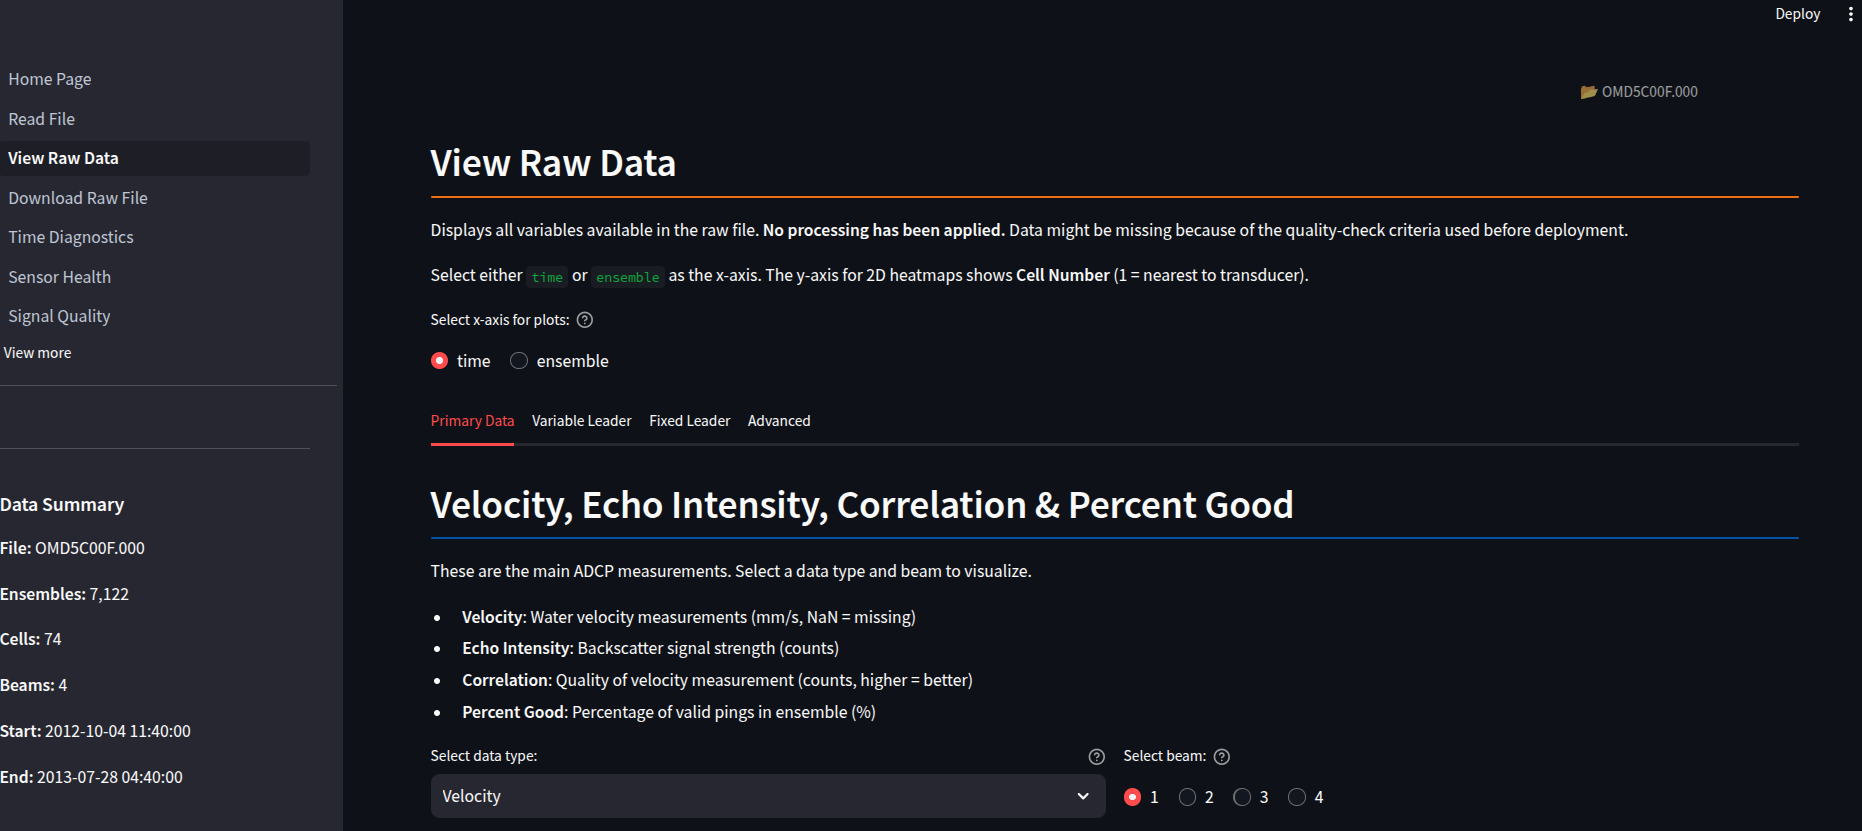
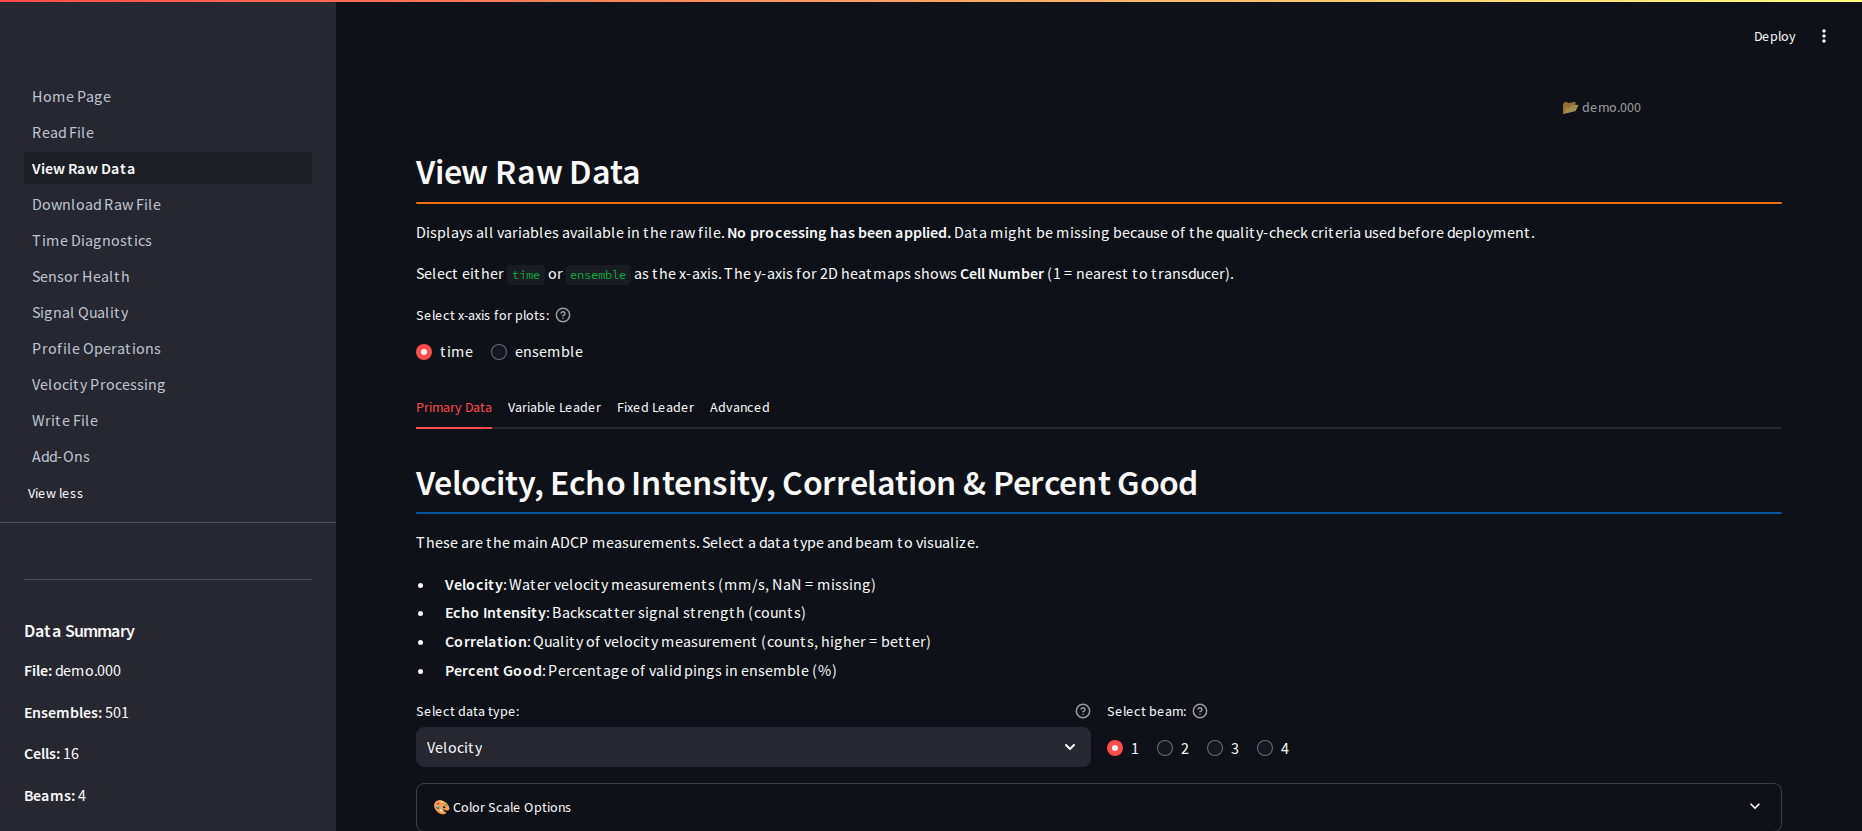
docs: fix documentation bugs and refresh stale web-app screenshots
Corrects several examples and references that had drifted from the
actual code: header-accessor usage, config.ini key names, regrid()
signature/default, and a pd0_parser error code name. Moves the AI-
assistance disclosure into its own Note section and fixes pyadps
casing in the Sphinx front page.

Also retakes all 10 web-app screenshots against the bundled demo.000
file, replacing ones that had gone stale after the three-beam mode,
Write File export, and Time Diagnostics UI changes.

diff --git a/CHANGELOG.md b/CHANGELOG.md
@@ -15,6 +15,13 @@ All notable changes to `pyadps` are documented in this file. The format is based
 - Selectable export components (velocity, echo intensity, correlation, percent good) on
   the Write File page, replacing the earlier velocity-only/full-dataset choice
 - Short (u, v, w) velocity variable naming option alongside the CF-style long names
+- Processing pipeline flowchart on the Streamlit home page and in the docs, showing
+  the six-step pipeline plus the decision logic within Time Diagnostics, Sensor
+  Health, Signal Quality, and Profile Operations
+- "Background" section (motivation, deployment context, current coordinate-system
+  limitation) on the README, Streamlit home page, and docs front page
+- "Processing Guidelines" section on the Web Application docs page, with
+  per-page tips on what to check at each step
 
 ### Changed
 
@@ -25,6 +32,21 @@ All notable changes to `pyadps` are documented in this file. The format is based
   check only; it previously also appeared on Correlation, Echo Intensity, and False
   Target, where it was either non-functional or not reliably grounded on
   ensemble-averaged data
+
+### Fixed
+
+- Documentation examples calling `ds.header.*` right after a plain `pyadps.read()`
+  call, which silently misreports file status since `include_header` defaults to
+  `False` (`installation.md`, `io/accessors.md`, `io/index.md`)
+- Sample `config.ini` in `processing/config.md` used incorrect key names in the
+  `[QCTest]`, `[ProfileTest]`, and `[VelocityTest]` sections that don't match
+  `ProcessingConfig.from_ini()` — a hand-edited file following the old example
+  would have had those settings silently ignored
+- `ProfileOperationRunner.regrid()` documentation listed nonexistent parameters
+  and the wrong default interpolation method
+- `pd0_parser` error code 5 documented under the wrong name
+  (`WRONG_RDIFILE_TYPE` instead of `WRONG_ADCPFILE_TYPE`)
+- Write File page documentation describing the pre-redesign Export Data tab
 
 ### Deprecated
 

diff --git a/docs/source/index.md b/docs/source/index.md
@@ -1,8 +1,8 @@
 # pyadps Documentation
 
-**Professional Python package for RDI ADCP data processing**
+**Python package for ADCP data processing**
 
-pyadps provides tools for reading, quality controlling, and processing
+`pyadps` provides tools for reading, quality controlling, and processing
 Acoustic Doppler Current Profiler (ADCP) data — designed for Teledyne RDI
 ADCPs recording in the PD0 binary format. PD0 files from other RDI models,
 such as Ocean Surveyor and DVS, can also be read; take extra care when
@@ -21,9 +21,6 @@ look at the quality-control results before the velocity output is treated
 as final. The package currently processes only data recorded in Earth
 coordinates; Beam-coordinate support and the associated coordinate
 transformation are planned for a future release.
-
-This version of the package was developed with extensive use of Claude
-(Anthropic) as a coding assistant.
 
 ## Features
 
@@ -65,7 +62,7 @@ ds.to_netcdf('output.nc')
 
 ## Package Structure
 
-pyadps is organized into three main components:
+`pyadps` is organized into three main components:
 
 ```{toctree}
 :maxdepth: 1
@@ -95,7 +92,7 @@ reference/changelog
 
 ## Getting Started
 
-1. **Install pyadps**: See {doc}`installation` for instructions
+1. **Install `pyadps`**: See {doc}`installation` for instructions
 2. **Read the Quick Start**: {doc}`quickstart` provides a 5-minute introduction
 3. **Try the Web App**: {doc}`webapp/index` covers the interactive interface
 4. **Go deeper**: {doc}`io/index` and {doc}`processing/index` cover the module details
@@ -138,4 +135,9 @@ reference/changelog
 
 ## License
 
-pyadps is released under the MIT License.
+`pyadps` is released under the MIT License.
+
+## Note
+
+*This version of the package was developed with extensive use of Claude
+(Anthropic) as a coding assistant.*

diff --git a/docs/source/webapp/index.md b/docs/source/webapp/index.md
@@ -346,13 +346,23 @@ Export the processed dataset and save the processing configuration.
 |-----|-------------|
 | 📊 Preview Data | Visualise processed data with QC mask applied |
 | 📝 Attributes | Add custom metadata (cruise number, location, etc.) |
-| 💾 Export Data | Download NetCDF or CSV output |
+| 💾 Export Data | Choose components and export as NetCDF or CSV |
 | ⚙ Config File | Download `config.ini` capturing all processing settings |
 
 The exported `config.ini` can be used with the Auto Processing tool (Page 10)
 to reprocess data with adjusted parameters without repeating the full workflow.
 
 ```{tip}
+Export Data lets you pick which components to include — Velocity (checked
+by default), Echo Intensity, Correlation, Percent Good — or check **Entire
+Dataset** to export everything instead (equivalent to a full raw dump,
+overriding the individual checkboxes). Velocity variable names default to
+the short form (`u`, `v`, `w`); switch to CF-style long names
+(`zonal_velocity`, `meridional_velocity`, `vertical_velocity`) or enter
+your own if you prefer — either way the file stays CF-compliant, since CF
+Convention governs attribute values, not variable names. Exported NetCDF
+filenames end in `_PRO.nc`.
+
 Download the final processed data and the `config.ini` together — the
 config file records every setting you used, so the run can be reproduced
 or repeated later with minor adjustments instead of redoing the whole

diff --git a/README.md b/README.md
@@ -16,8 +16,6 @@
 
 `pyadps` was built to process Teledyne RDI PD0 files from moored ADCP deployments that lack navigation (GPS) data. It was developed primarily for the COSINE and ECO-IOD mooring programs in the north Indian Ocean, which together span over 600 ADCP deployments — a scale that made it worth standardizing and documenting the processing steps rather than repeating ad hoc scripts for each dataset. The accompanying web interface lets users with limited programming experience run the same pipeline, while the processing workflow still requires a close look at the quality-control results before the velocity output is treated as final. The package currently processes only data recorded in Earth coordinates; Beam-coordinate support and the associated coordinate transformation are planned for a future release.
 
-This version of the package was developed with extensive use of Claude (Anthropic) as a coding assistant.
-
 ## Features
 
 - Read RDI binary files (PD0 format) as `xarray.Dataset`
@@ -133,3 +131,7 @@ For the complete guide see the [documentation](https://pyadps.readthedocs.io).
 ## License
 
 This project is licensed under the MIT License. See the [LICENSE](LICENSE) file for details.
+
+## Note
+
+*This version of the package was developed with extensive use of Claude (Anthropic) as a coding assistant.*

diff --git a/docs/source/processing/profile_operation.md b/docs/source/processing/profile_operation.md
@@ -22,7 +22,7 @@ All methods return `self` for chaining.
 | `trim_ensembles(start, end)` | Mask ensembles at the start and/or end of deployment |
 | `cut_bins_side_lobe(orientation, water_depth, extra_cells=1)` | Mask cells contaminated by acoustic side-lobe interference |
 | `cut_bins_manual(min_cell, max_cell, min_ensemble, max_ensemble)` | Mask a rectangular region by cell and ensemble index |
-| `regrid(method='linear', depth_min, depth_max, depth_step)` | Interpolate from cell coordinates to a regular depth grid |
+| `regrid(method='nearest', end_cell_option='cell', trimends=None, orientation=None, boundary_limit=0.0, data_vars=None, fill_value=np.nan)` | Interpolate from cell coordinates to a regular depth grid |
 
 ### Control and Output Methods
 

diff --git a/docs/source/processing/config.md b/docs/source/processing/config.md
@@ -106,23 +106,23 @@ roll_cutoff = 15.0
 
 [QCTest]
 qc_test = true
-correlation_threshold = 64.0
-echo_intensity_threshold = 0.0
-error_velocity_threshold = 2000.0
+correlation = 64.0
+echo_intensity = 0.0
+error_velocity = 2000.0
 
 [ProfileTest]
 profile_test = true
 trim_ends = true
 trim_start = 100
 trim_end = 50
-cut_bins_side_lobe = true
+cut_sidelobe = true
 
 [VelocityTest]
 velocity_test = true
-cutoff_check = true
-max_u_velocity = 2500.0
-max_v_velocity = 2500.0
-max_w_velocity = 500.0
+velocity_cutoff = true
+max_zonal_velocity = 2500.0
+max_meridional_velocity = 2500.0
+max_vertical_velocity = 500.0
 ```
 
 ## Usage with ProcessedDataset

diff --git a/docs/source/io/pd0_parser.md b/docs/source/io/pd0_parser.md
@@ -65,7 +65,7 @@ if err != 0:
 | 2 | `PERMISSION_DENIED` | Access denied |
 | 3 | `IO_ERROR` | File open or read failed |
 | 4 | `OUT_OF_MEMORY` | Insufficient memory |
-| 5 | `WRONG_RDIFILE_TYPE` | Not a valid RDI PD0 file |
+| 5 | `WRONG_ADCPFILE_TYPE` | Not a valid RDI PD0 file |
 | 6 | `ID_NOT_FOUND` | Data type ID not found in ensemble |
 | 7 | `DATATYPE_MISMATCH` | Inconsistent data types across ensembles |
 | 8 | `FILE_CORRUPTED` | Invalid structure or truncated data |

diff --git a/docs/source/io/index.md b/docs/source/io/index.md
@@ -73,6 +73,13 @@ read functions.
 
 ### Header (`ds.header.*`)
 
+```{note}
+Header data is not loaded by default. Pass `include_header=True` to
+`pyadps.read()` before using any `ds.header.*` method, or they will
+silently report failure (e.g. `check_file()` returning
+`File Size Match: False`) rather than raising an error.
+```
+
 | Method | Description |
 |--------|-------------|
 | `check_file()` | Verify file integrity (size, byte uniformity) |

diff --git a/docs/source/installation.md b/docs/source/installation.md
@@ -89,8 +89,9 @@ Accessor methods are registered automatically when you import pyadps — no addi
 ```python
 import pyadps
 
-ds = pyadps.read('file.000')
-ds.header.summary()  # Works out of the box
+# include_header=True is required for ds.header.* — it defaults to False
+ds = pyadps.read('file.000', include_header=True)
+ds.header.summary()
 ```
 
 ## Next Steps

diff --git a/docs/source/io/accessors.md b/docs/source/io/accessors.md
@@ -18,7 +18,8 @@ read functions:
 ```python
 import pyadps
 
-ds = pyadps.read('deployment.000')
+# include_header=True is required for ds.header.* — it defaults to False
+ds = pyadps.read('deployment.000', include_header=True)
 
 # File integrity
 ds.header.check_file()
